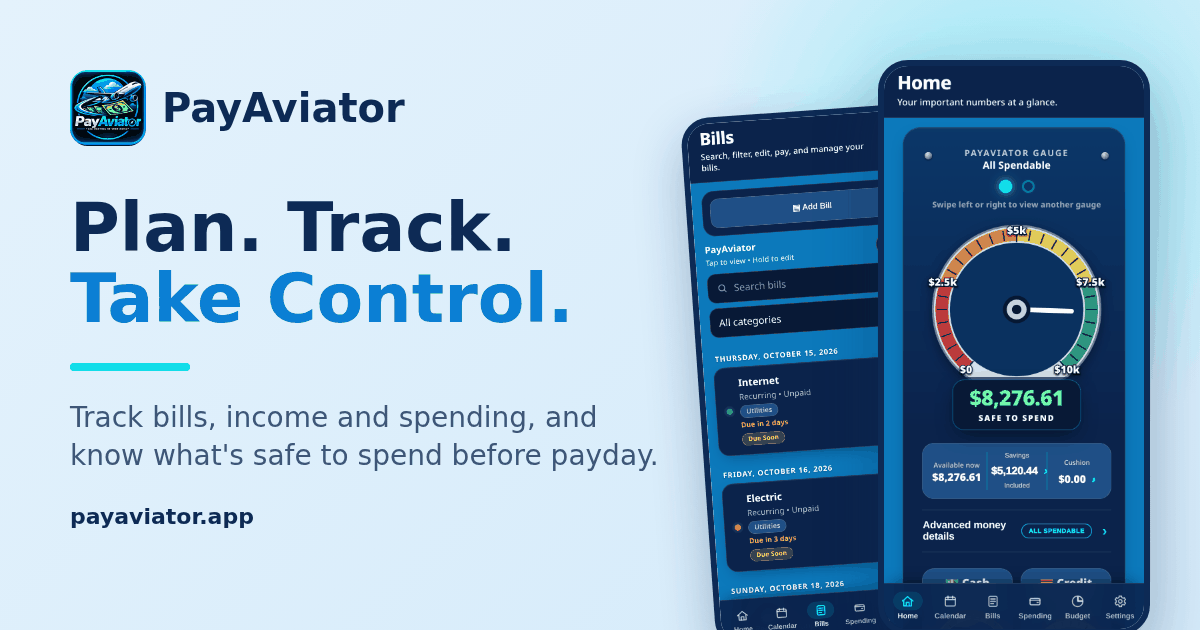
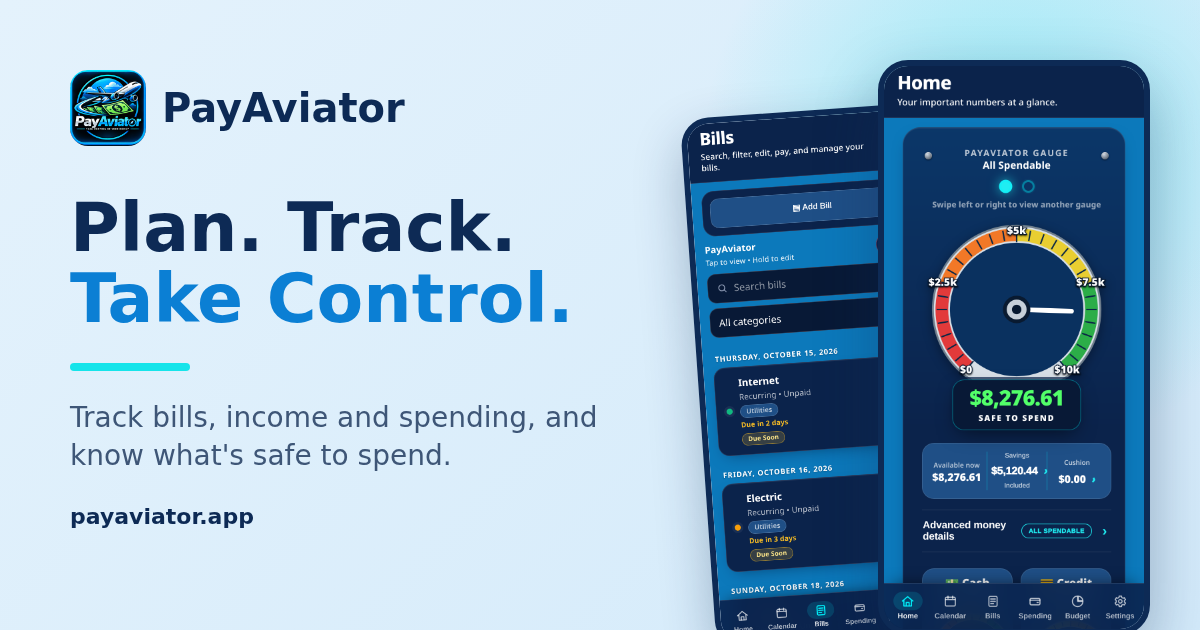
OG: drop 'before payday'

diff --git a/index.html b/index.html
@@ -7,15 +7,15 @@
 <meta name="theme-color" content="#e4f2fc">
 <title>PayAviator | Plan. Track. Take Control.</title>
 <link rel="canonical" href="https://payaviator.app/">
-<meta name="description" content="Track bills, income and spending, and know what&#39;s safe to spend before payday.">
+<meta name="description" content="Track bills, income and spending, and know what&#39;s safe to spend.">
 <meta property="og:type" content="website"><meta property="og:site_name" content="PayAviator">
-<meta property="og:title" content="PayAviator | Plan. Track. Take Control."><meta property="og:description" content="Track bills, income and spending, and know what&#39;s safe to spend before payday.">
+<meta property="og:title" content="PayAviator | Plan. Track. Take Control."><meta property="og:description" content="Track bills, income and spending, and know what&#39;s safe to spend.">
 <meta property="og:url" content="https://payaviator.app/">
 <meta property="og:image" content="https://payaviator.app/assets/screens/og-card-2026-10.png">
 <meta property="og:image:width" content="1200"><meta property="og:image:height" content="630">
 <meta property="og:image:alt" content="PayAviator: Plan. Track. Take Control. App screens showing bills and Safe to Spend.">
 <meta name="twitter:card" content="summary_large_image">
-<meta name="twitter:description" content="Track bills, income and spending, and know what&#39;s safe to spend before payday.">
+<meta name="twitter:description" content="Track bills, income and spending, and know what&#39;s safe to spend.">
 <meta name="twitter:image" content="https://payaviator.app/assets/screens/og-card-2026-10.png"><meta name="twitter:image:alt" content="PayAviator: Plan. Track. Take Control. App screens showing bills and Safe to Spend.">
 <link rel="icon" type="image/png" sizes="32x32" href="assets/favicon-32.png">
 <link rel="apple-touch-icon" href="assets/apple-touch-icon.png">
